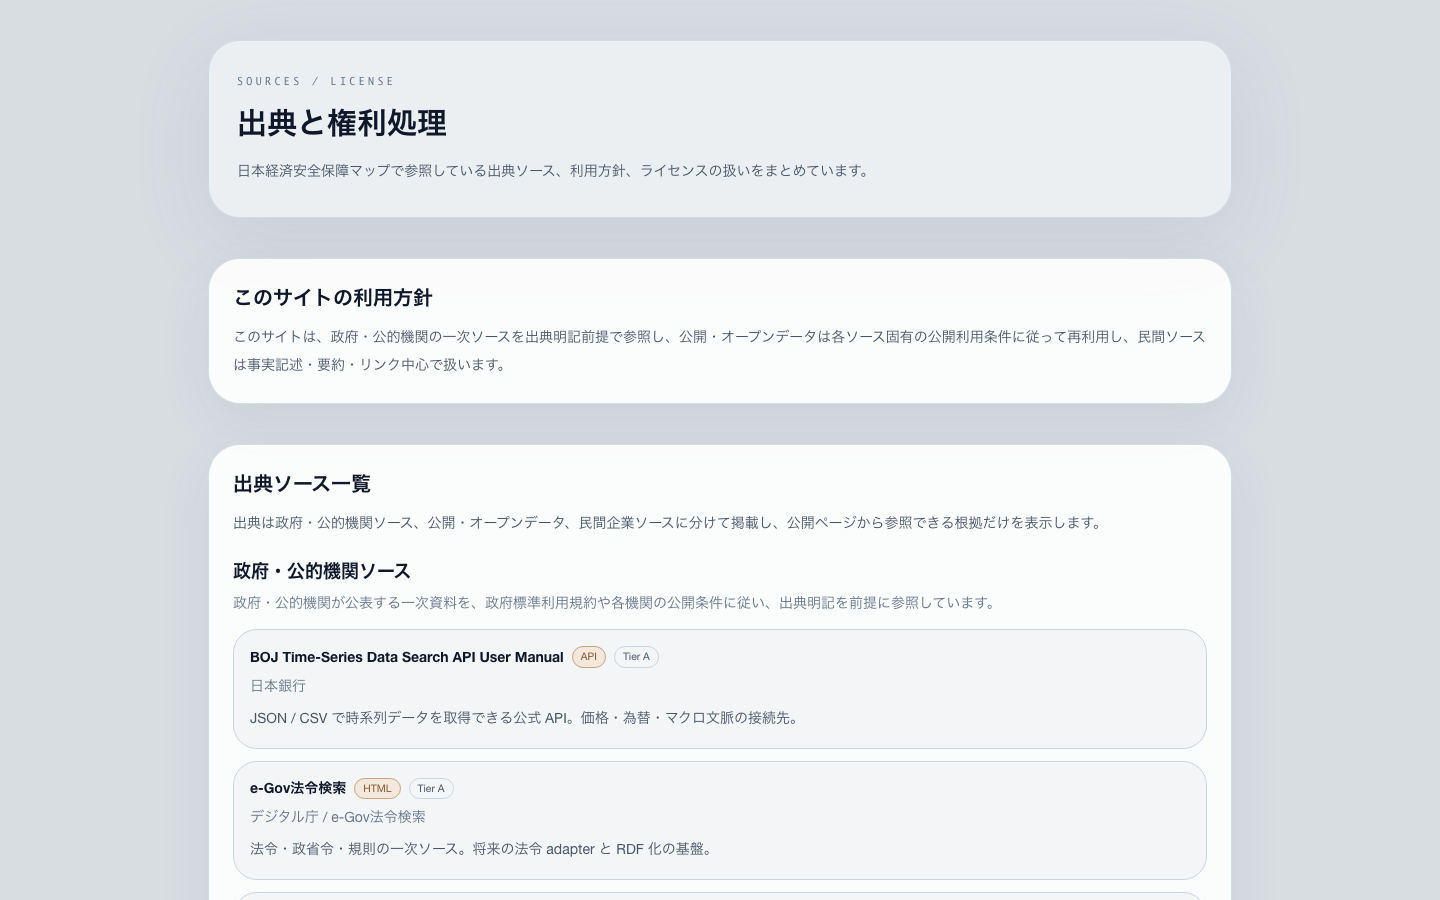
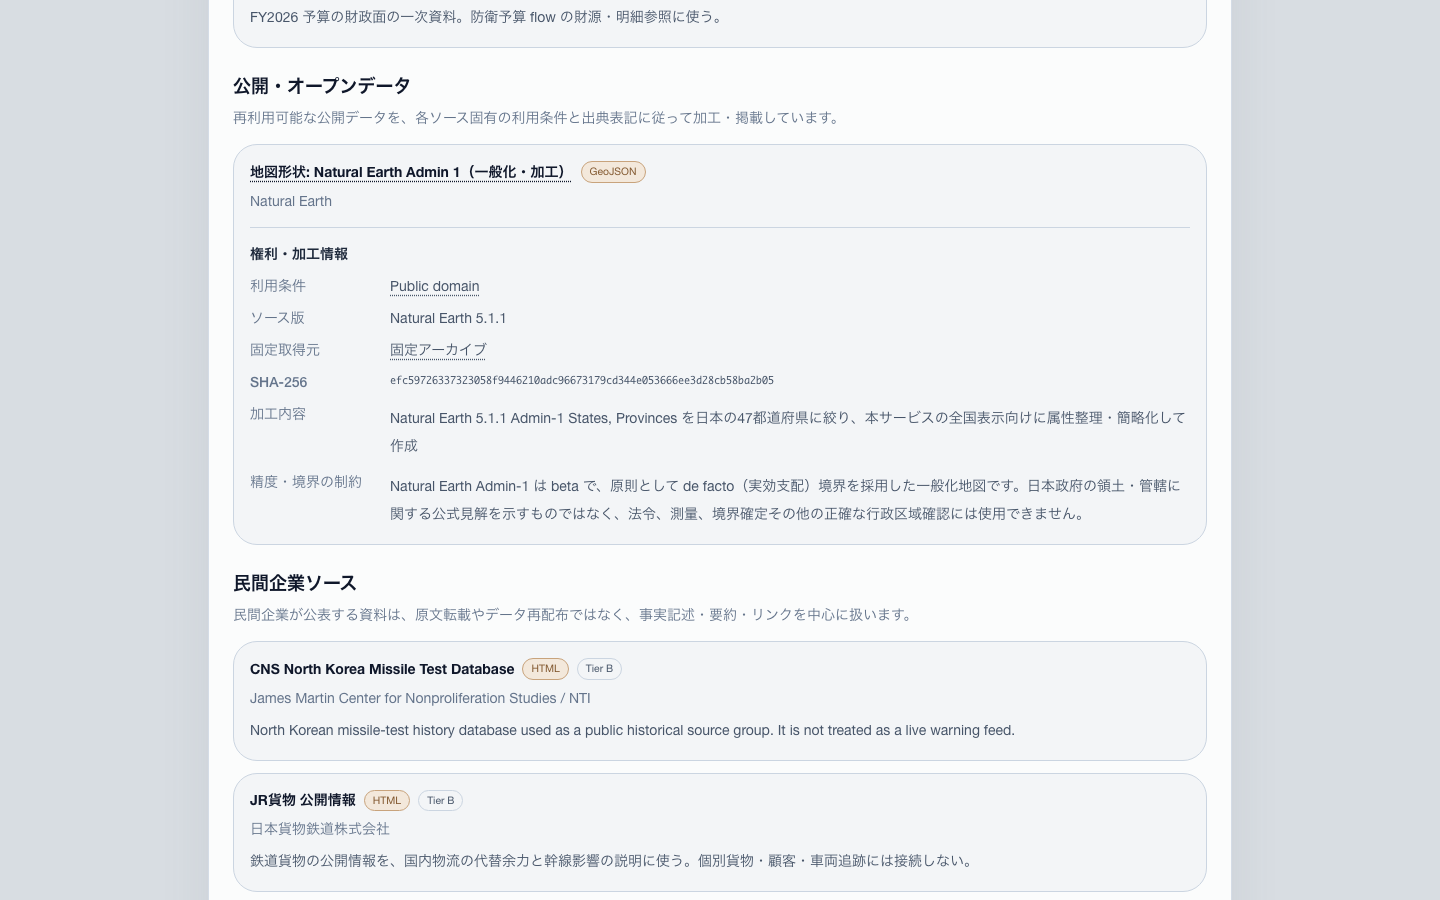
docs: complete source license evidence

diff --git a/docs/public-launch.md b/docs/public-launch.md
@@ -90,7 +90,7 @@ Result: 1 test passed in 12.8 seconds, and port 3101 had no listener after Playw
 - Keyboard zoom changed 5.3 to 6.2678, and the recenter control returned the same map to zoom 5.3.
 - The fixture-only missing-value test proved a neutral polygon fill, border, and label instead of zero-value styling or a circle fallback.
 - At 1024x768 and 390x844, the smoke check found no horizontal overflow, crash, precision inset, or circle fallback. Desktop 47-label cartography was not forced into those layouts. Their existing point-centric presentation is retained; this is not a claim that Mobile redesign is complete.
-- `/sources-license` visibly retained the official, open-data, Natural Earth, and private-company source groupings.
+- The 1440x900 `/sources-license` capture was positioned at the open-data section so one frame visibly includes the `公開・オープンデータ` heading, the Natural Earth entry with its rights and boundary limitation, and the `民間企業ソース` grouping.
 
 Application logic console errors: 0. Page errors: 0. Local application request failures: 0. Other external presentation request failures: 0. During real pan, zoom, and page changes, Chromium recorded 53 Esri raster requests ending in `net::ERR_ABORTED` and MapLibre emitted 44 corresponding external-raster console messages: 7 Light Gray Base, 26 Shaded Relief, and 20 Terrain Base requests were superseded. These are recorded separately as third-party raster transport cancellations, not reclassified as application errors. Every accepted map screenshot independently passed the bounded `tilesLoaded: true` readiness gate.
 
@@ -108,7 +108,7 @@ Application logic console errors: 0. Page errors: 0. Local application request f
[5 lines of base64/hex data omitted]
 
 All eleven hashes are unique.
 
